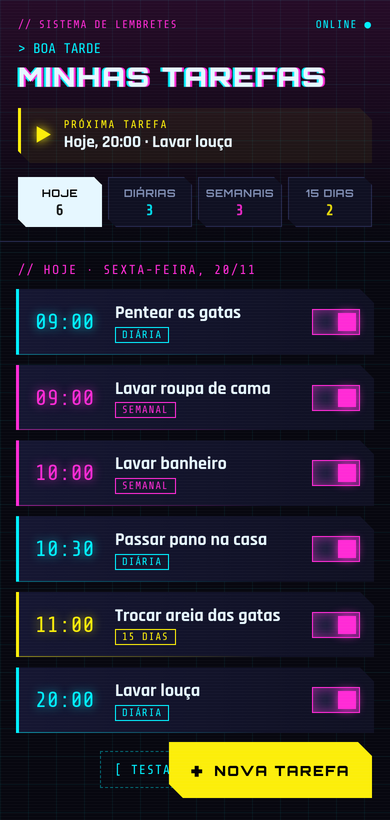
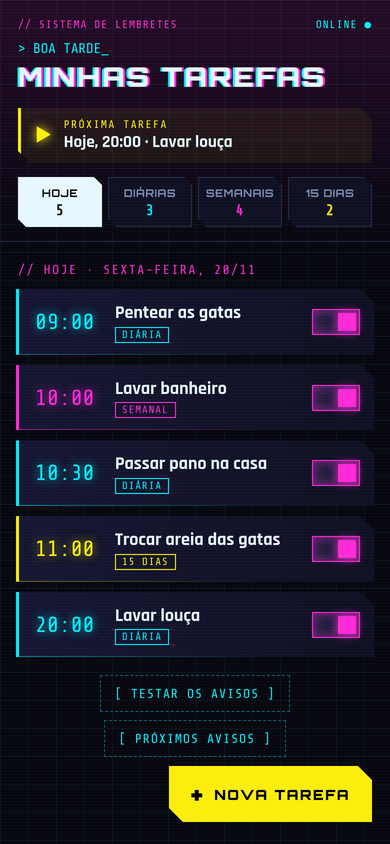
Atualizar apresentação para a versão 1.2 (sábado e domingo)
Claude-Session: https://claude.ai/code/session_01K3WE4CL8rLoDRo17LiBacs

diff --git a/README.md b/README.md
@@ -24,8 +24,8 @@
 ## Funcionalidades
 
 - **Três seções de tarefas**
-  - **Diárias:** repetem nos dias escolhidos (por padrão, de segunda a sexta).
-  - **Semanais:** uma vez por semana, no dia escolhido.
+  - **Diárias:** repetem nos dias escolhidos, de segunda a domingo, com atalhos para "seg a sex", "fim de semana" e "todos os dias".
+  - **Semanais:** uma vez por semana, no dia escolhido, inclusive sábado ou domingo.
   - **15 em 15 dias:** você escolhe a data da primeira vez e o app mostra as próximas repetições.
 - **Aba Hoje:** junta tudo o que cai no dia, em ordem de horário.
 - **Aviso 15 minutos antes:** uma notificação com som para se preparar.
